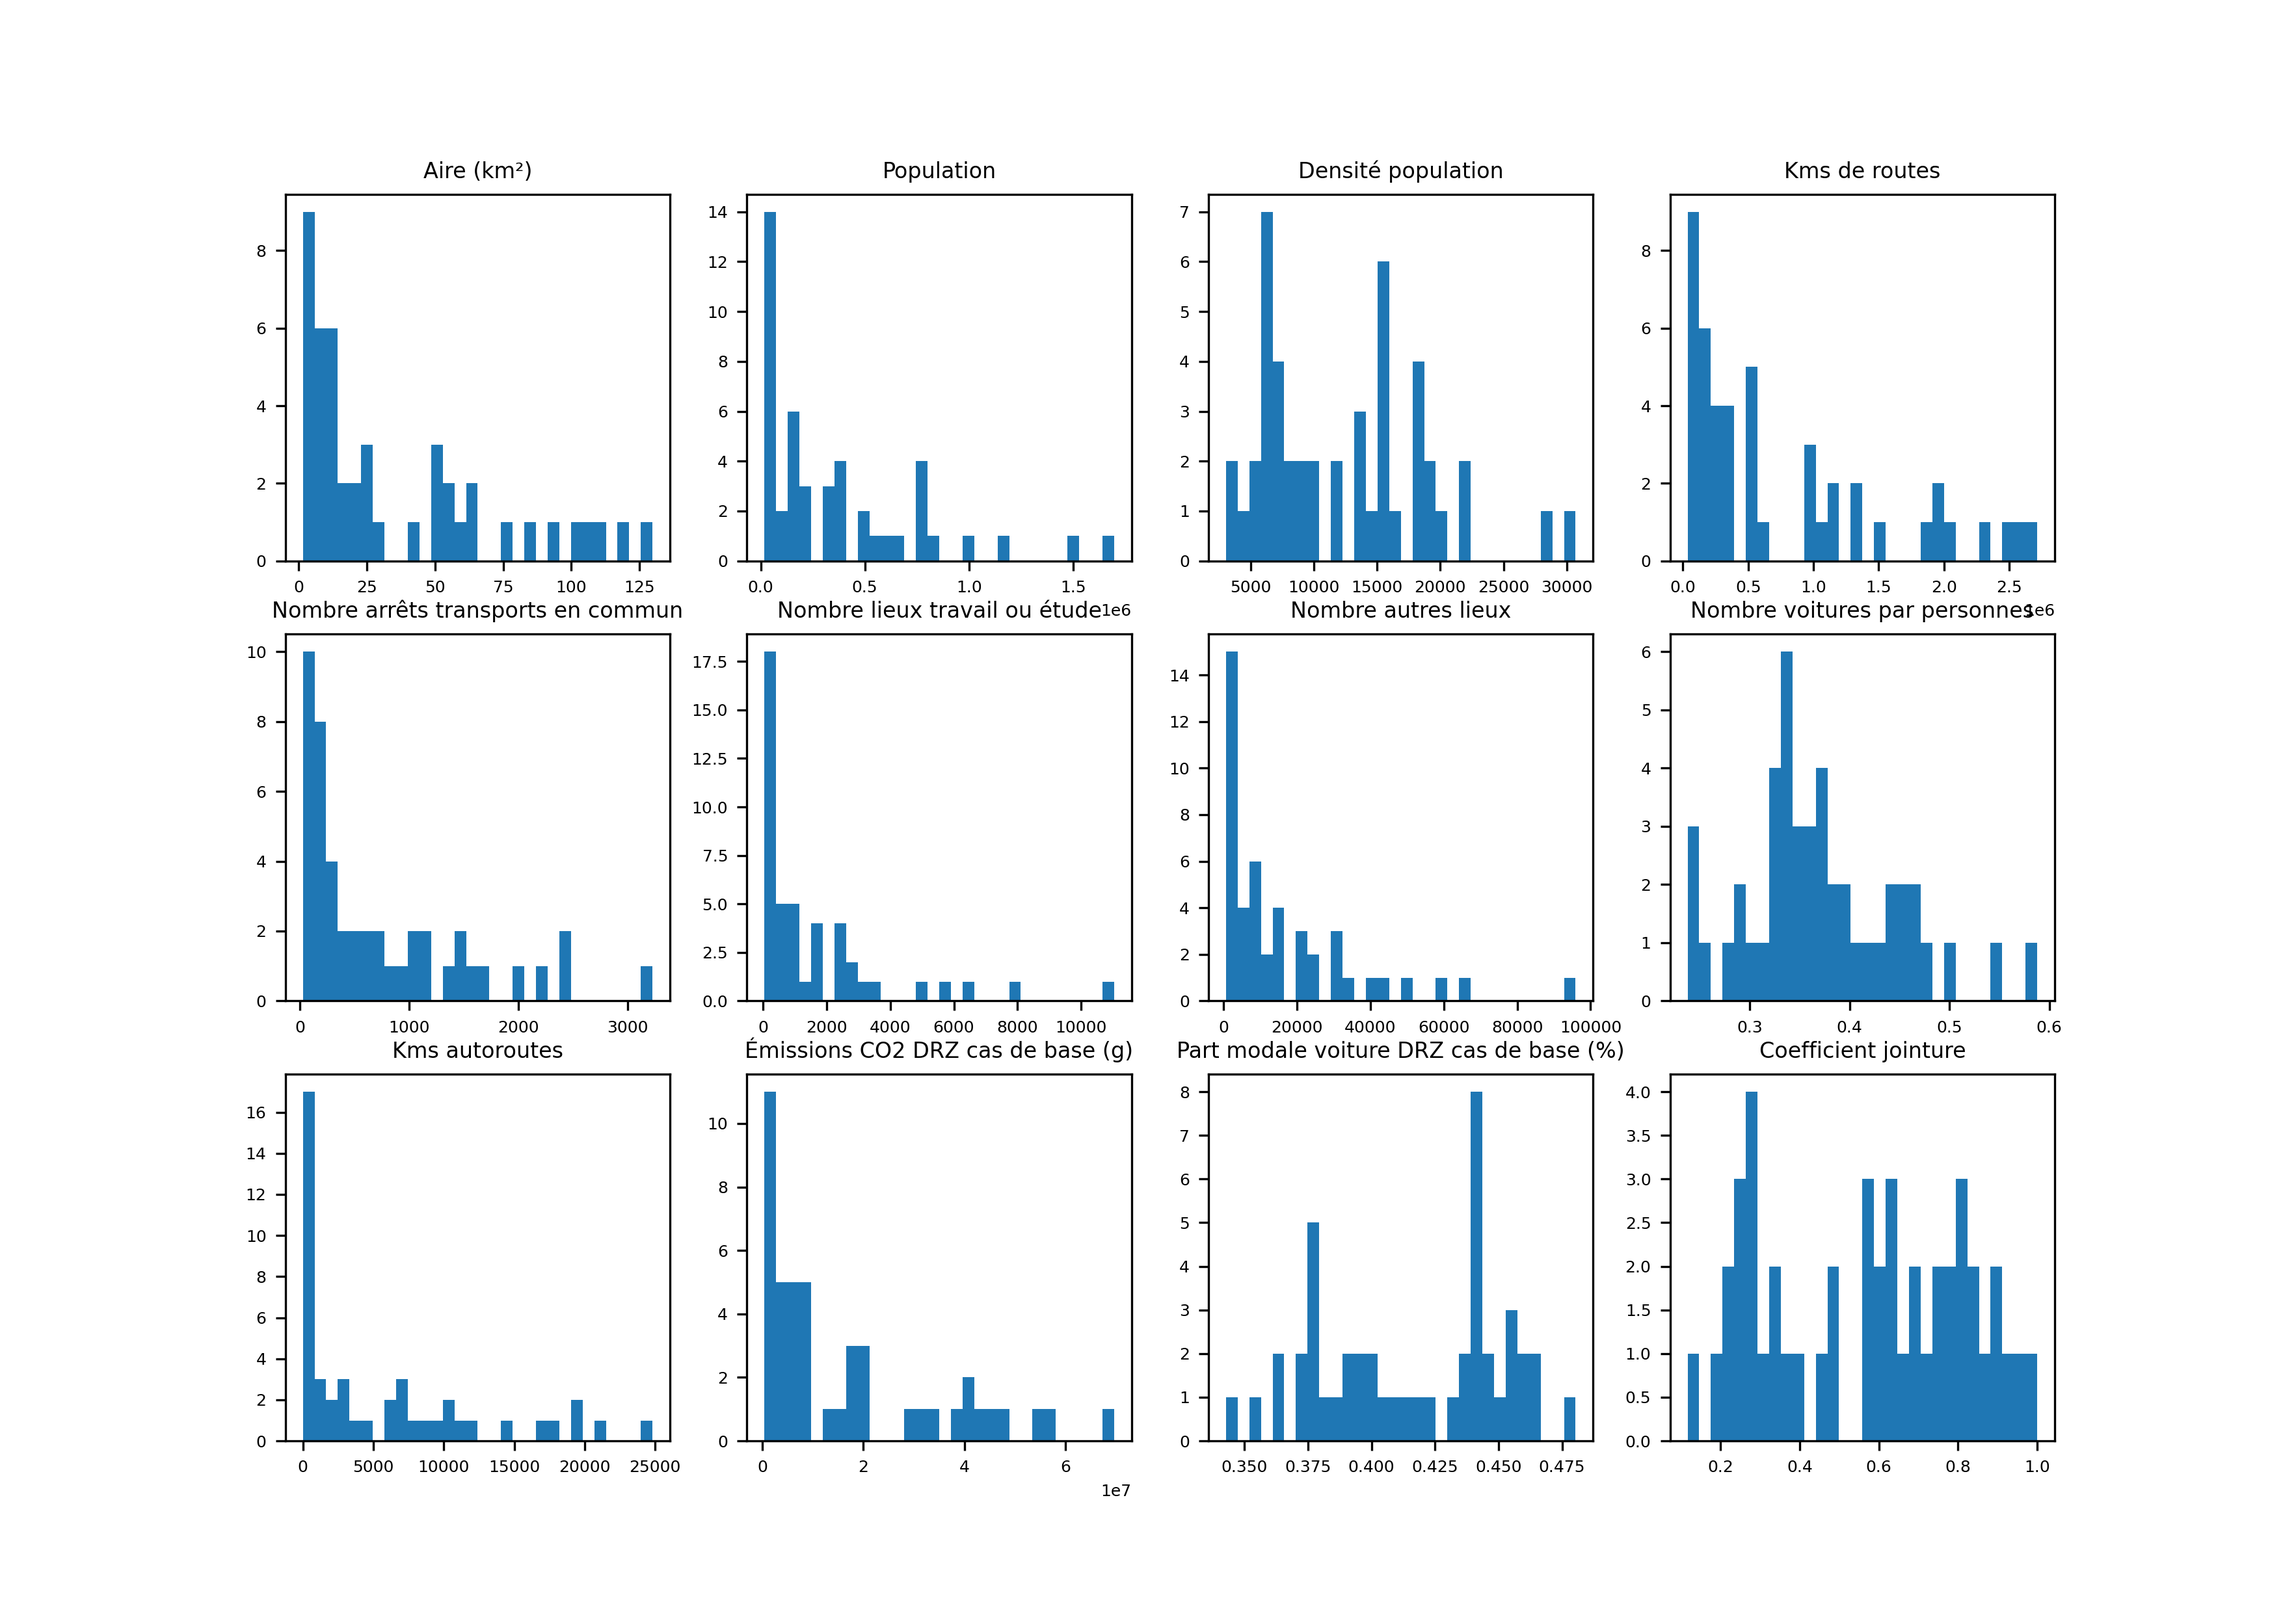
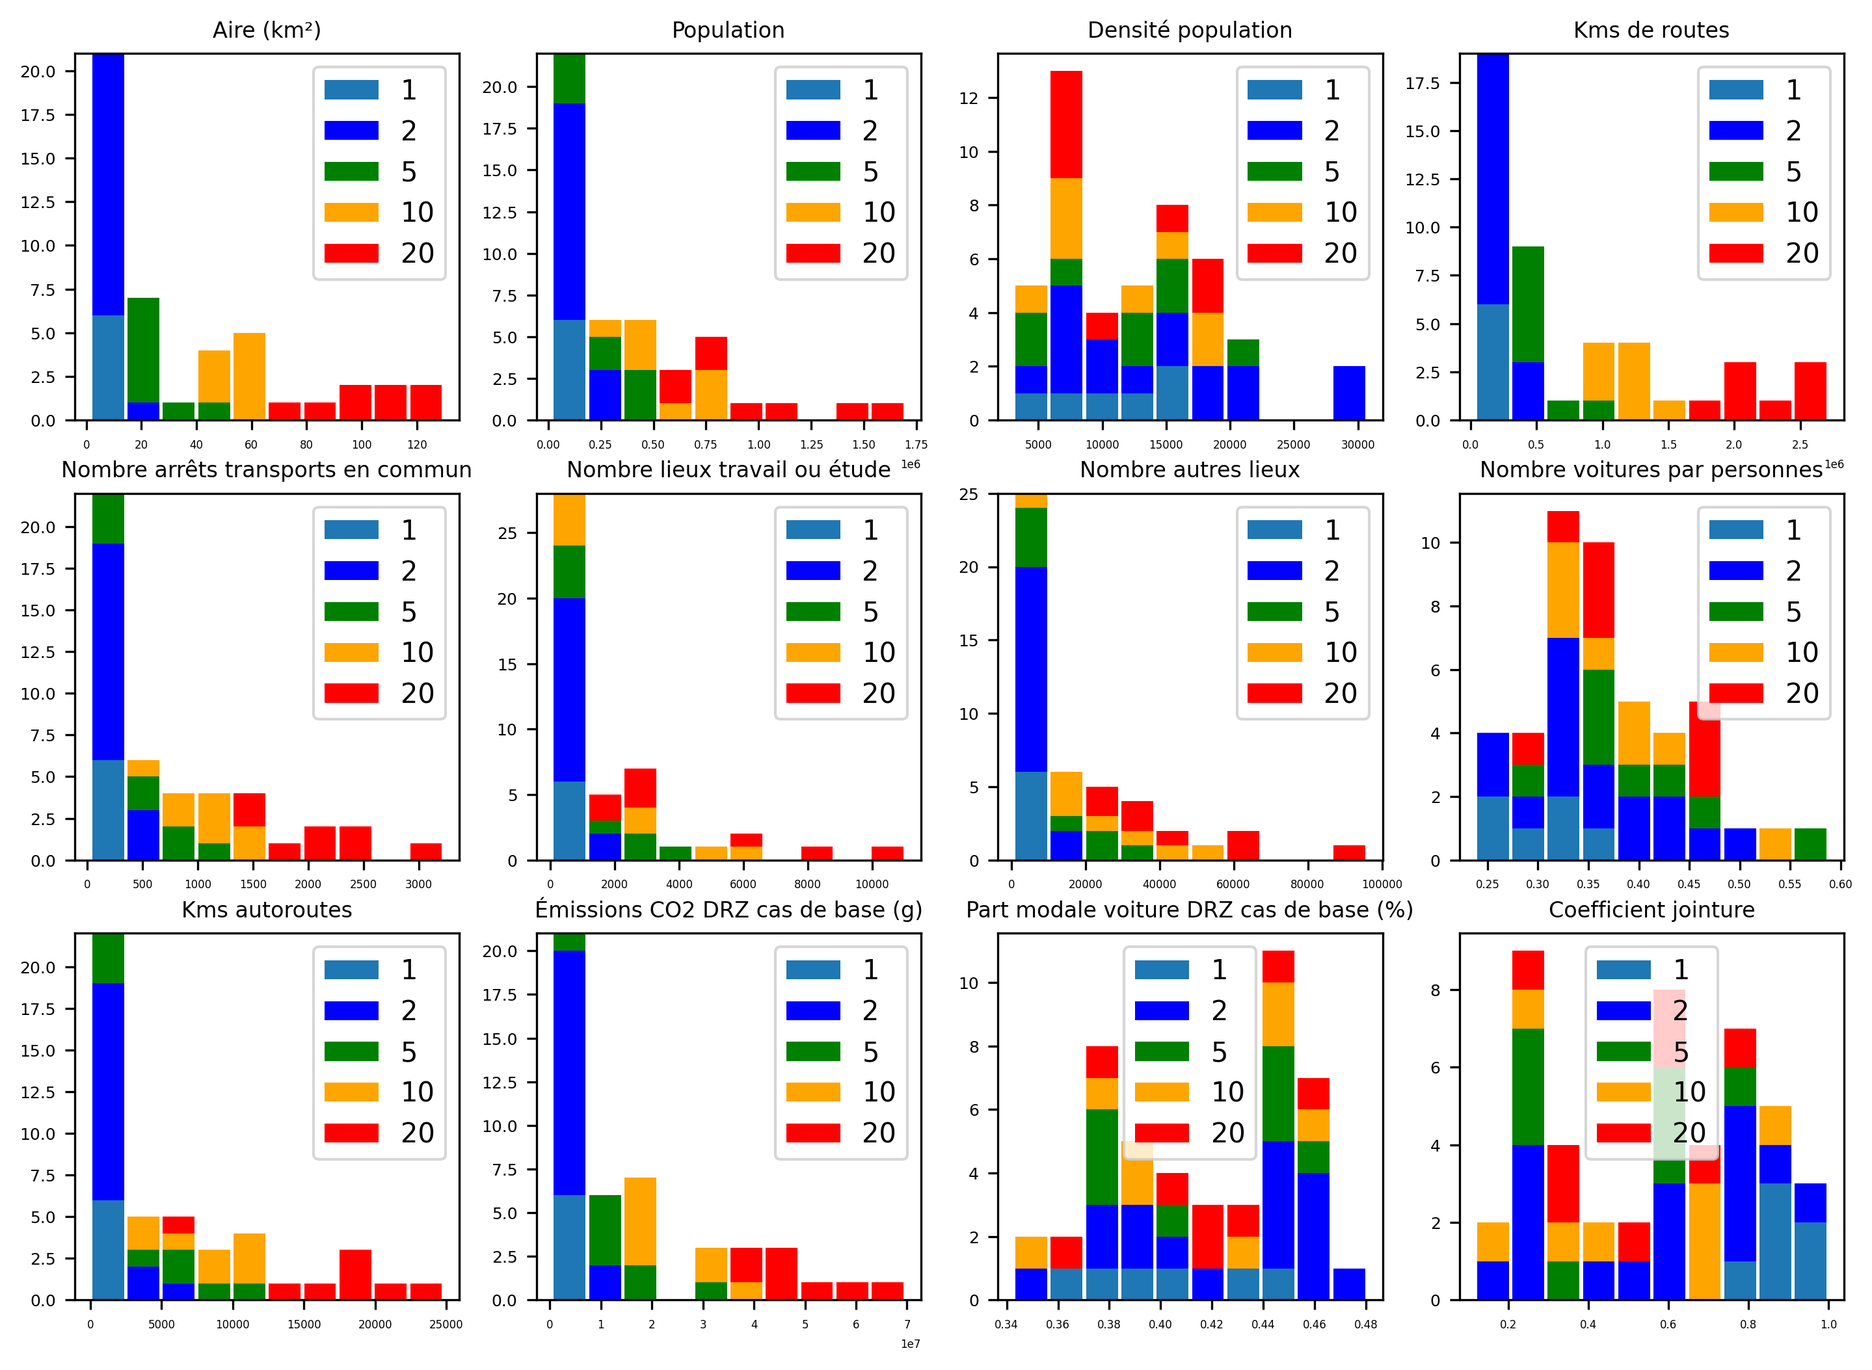
hists

diff --git a/python_files/get_graphes/README.md b/python_files/get_graphes/README.md
@@ -8,7 +8,9 @@ Chaque image regroupe un ensemble de graphes.
 
 Chaque image représente les relations des entrées ou des sorties avec une entréee ou sortie en particulier.
 
-### Nom des graphes
+Les graphes utilisés dans ce document sont disponibles dans le dossier graphes_readme.
+
+### Nom des graphes de corrélation
 
 Le nom des images est toujours construit de la même manière : a_with_b.png.
 
@@ -96,3 +98,20 @@ Ci-dessous le graphe du gain du temps de trajet moyen pour les résidents en fon
 On peut voir qu'il y a une relation entre temps de trajet moyen pour les résidents et la densité de la DRZ. Cette relation confirme ce que l'on a observé sur la matrice de corrélation.
 
 Cette relation n'a pas l'air linéaire mais plutôt hyperbolique, cela confirme que chaque sortie peut avoir des relations de nature différente avec les entrées et donc qu'il pourrait être intéressant d'entraîner un modèle différent pour chaque sortie.
+
+## Histogrammes
+
+### Histogramme des features
+
+Les couleurs correspondent au nombre de communes.
+
+![Histogramme entrées](./graphes_readme/hist_data_all.png)
+
+Je n'ai pas grand chose à dire sur ce graphe, il peut être trouvé, ainsi que les histogrammes par corpus (train/test/val) dans le dossier hists.
+
+### Histogramme des résultats
+
+Les couleurs correspondent au nombre de communes.
+
+![Histogramme sorties](./graphes_readme/hist_results_all.png)
+
